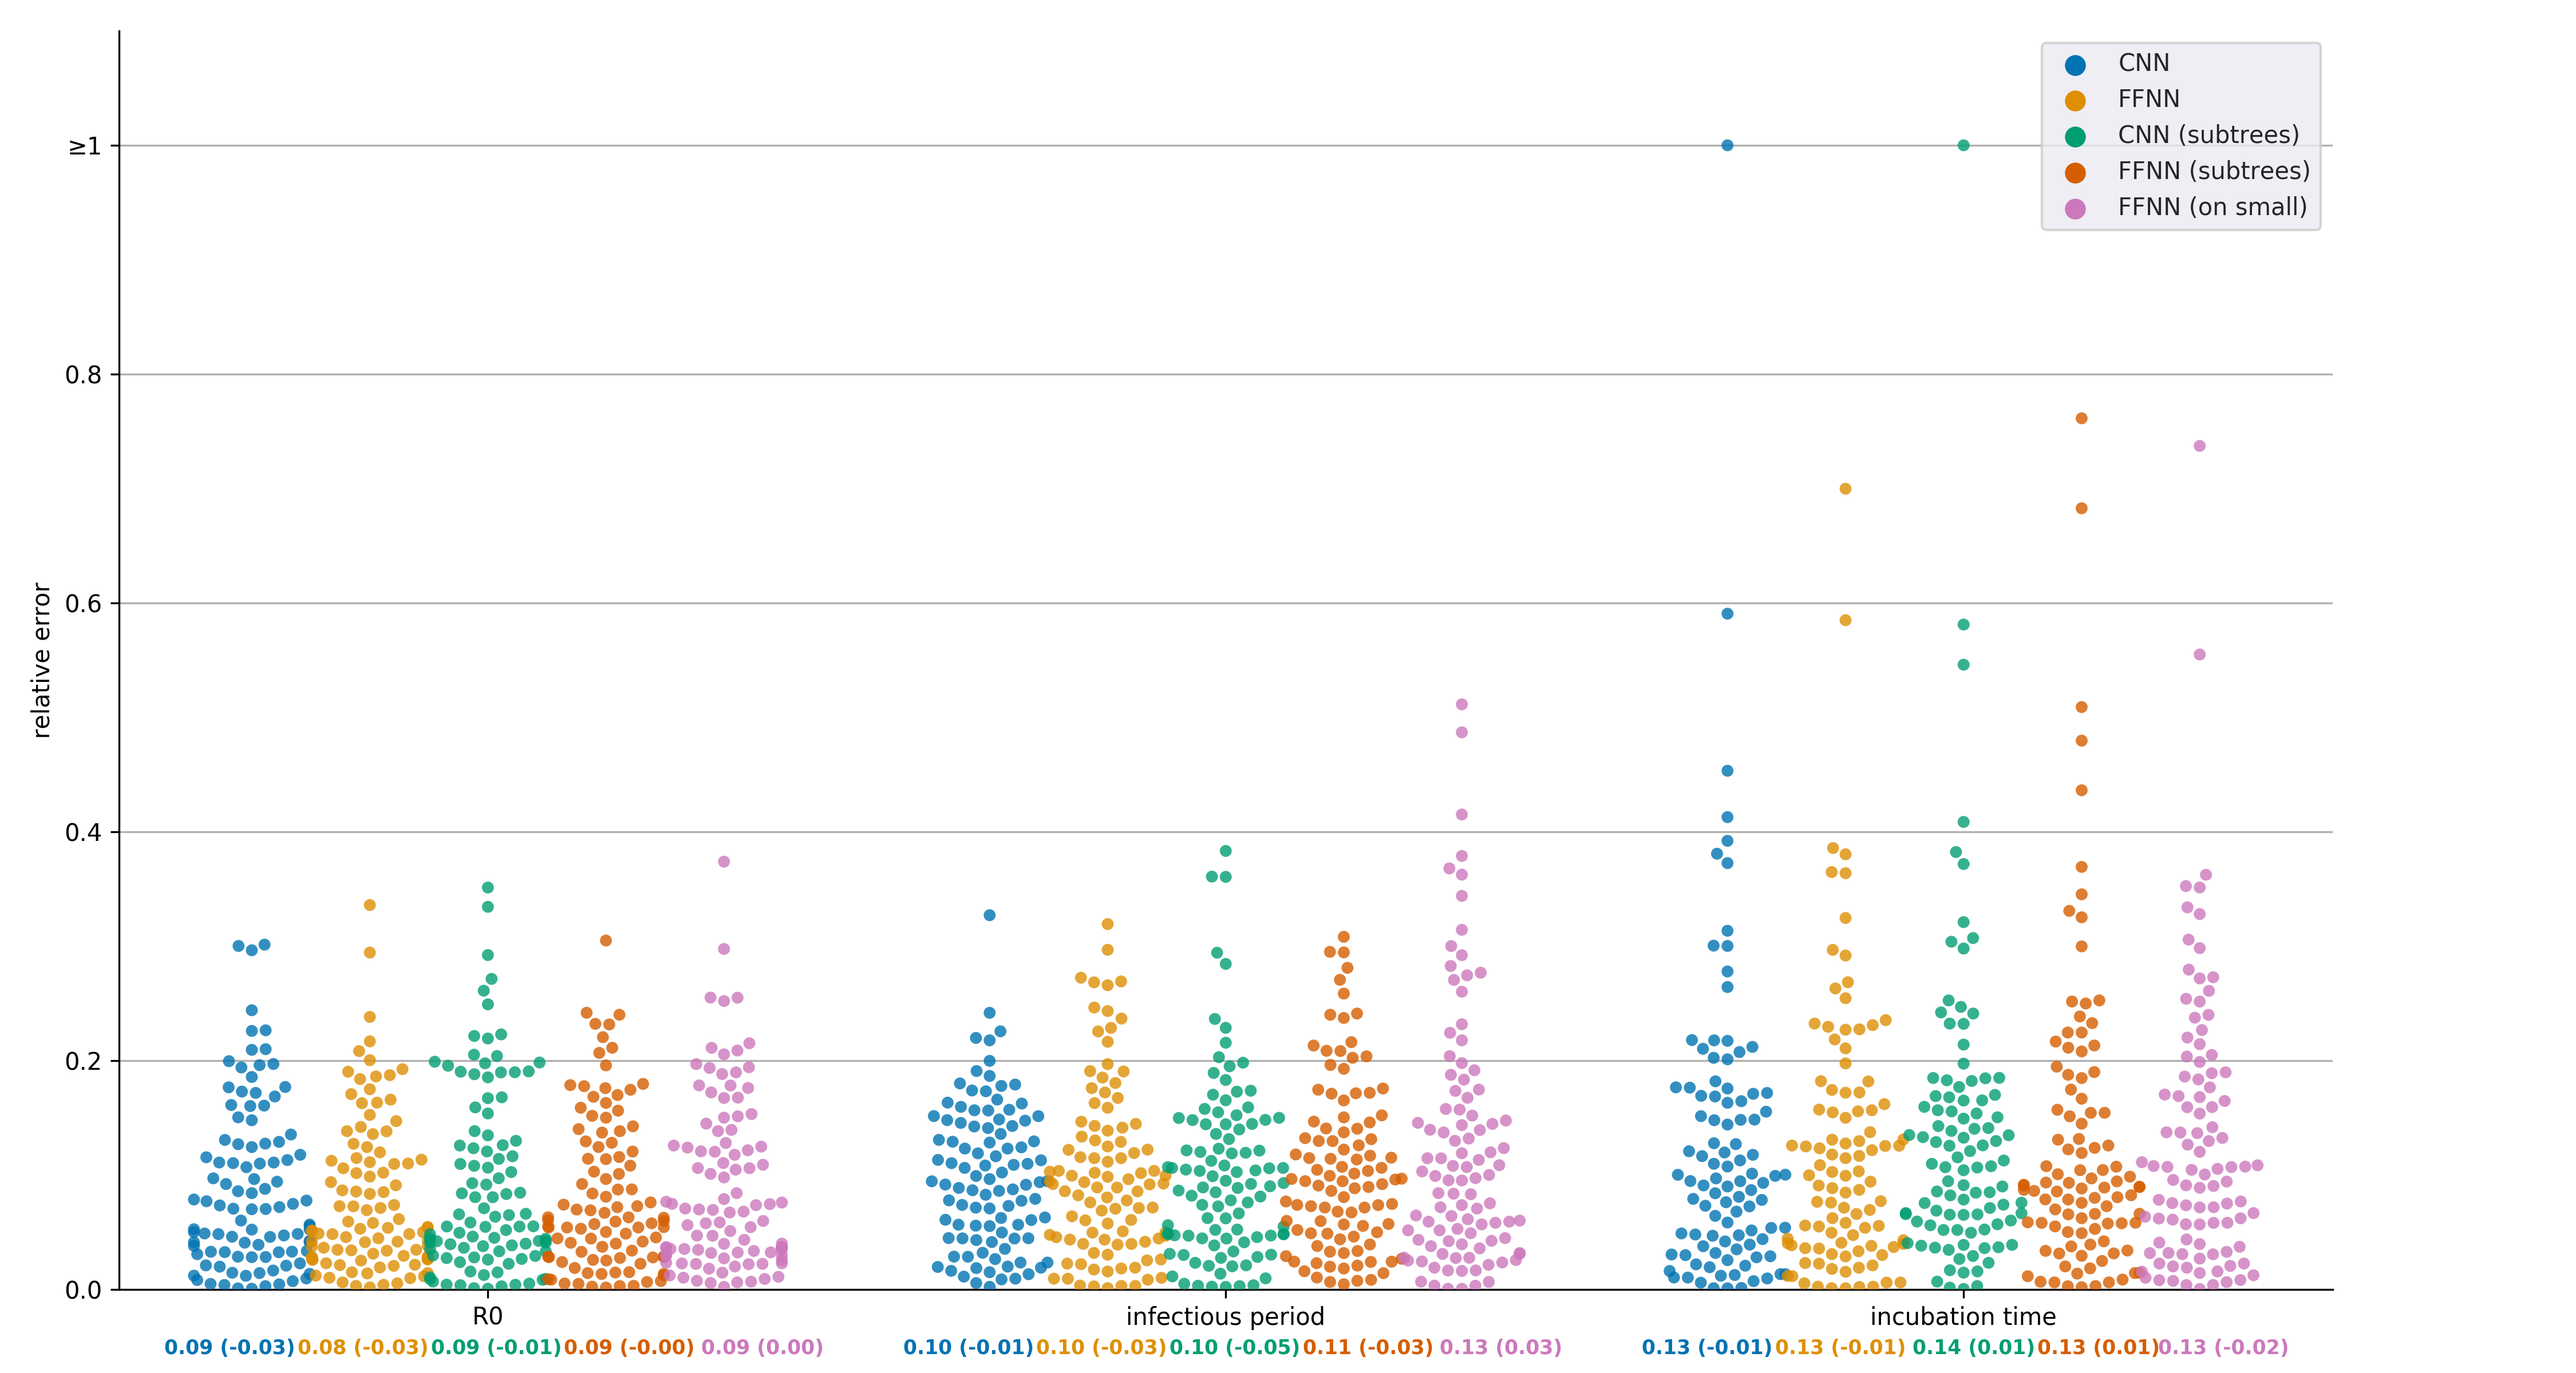
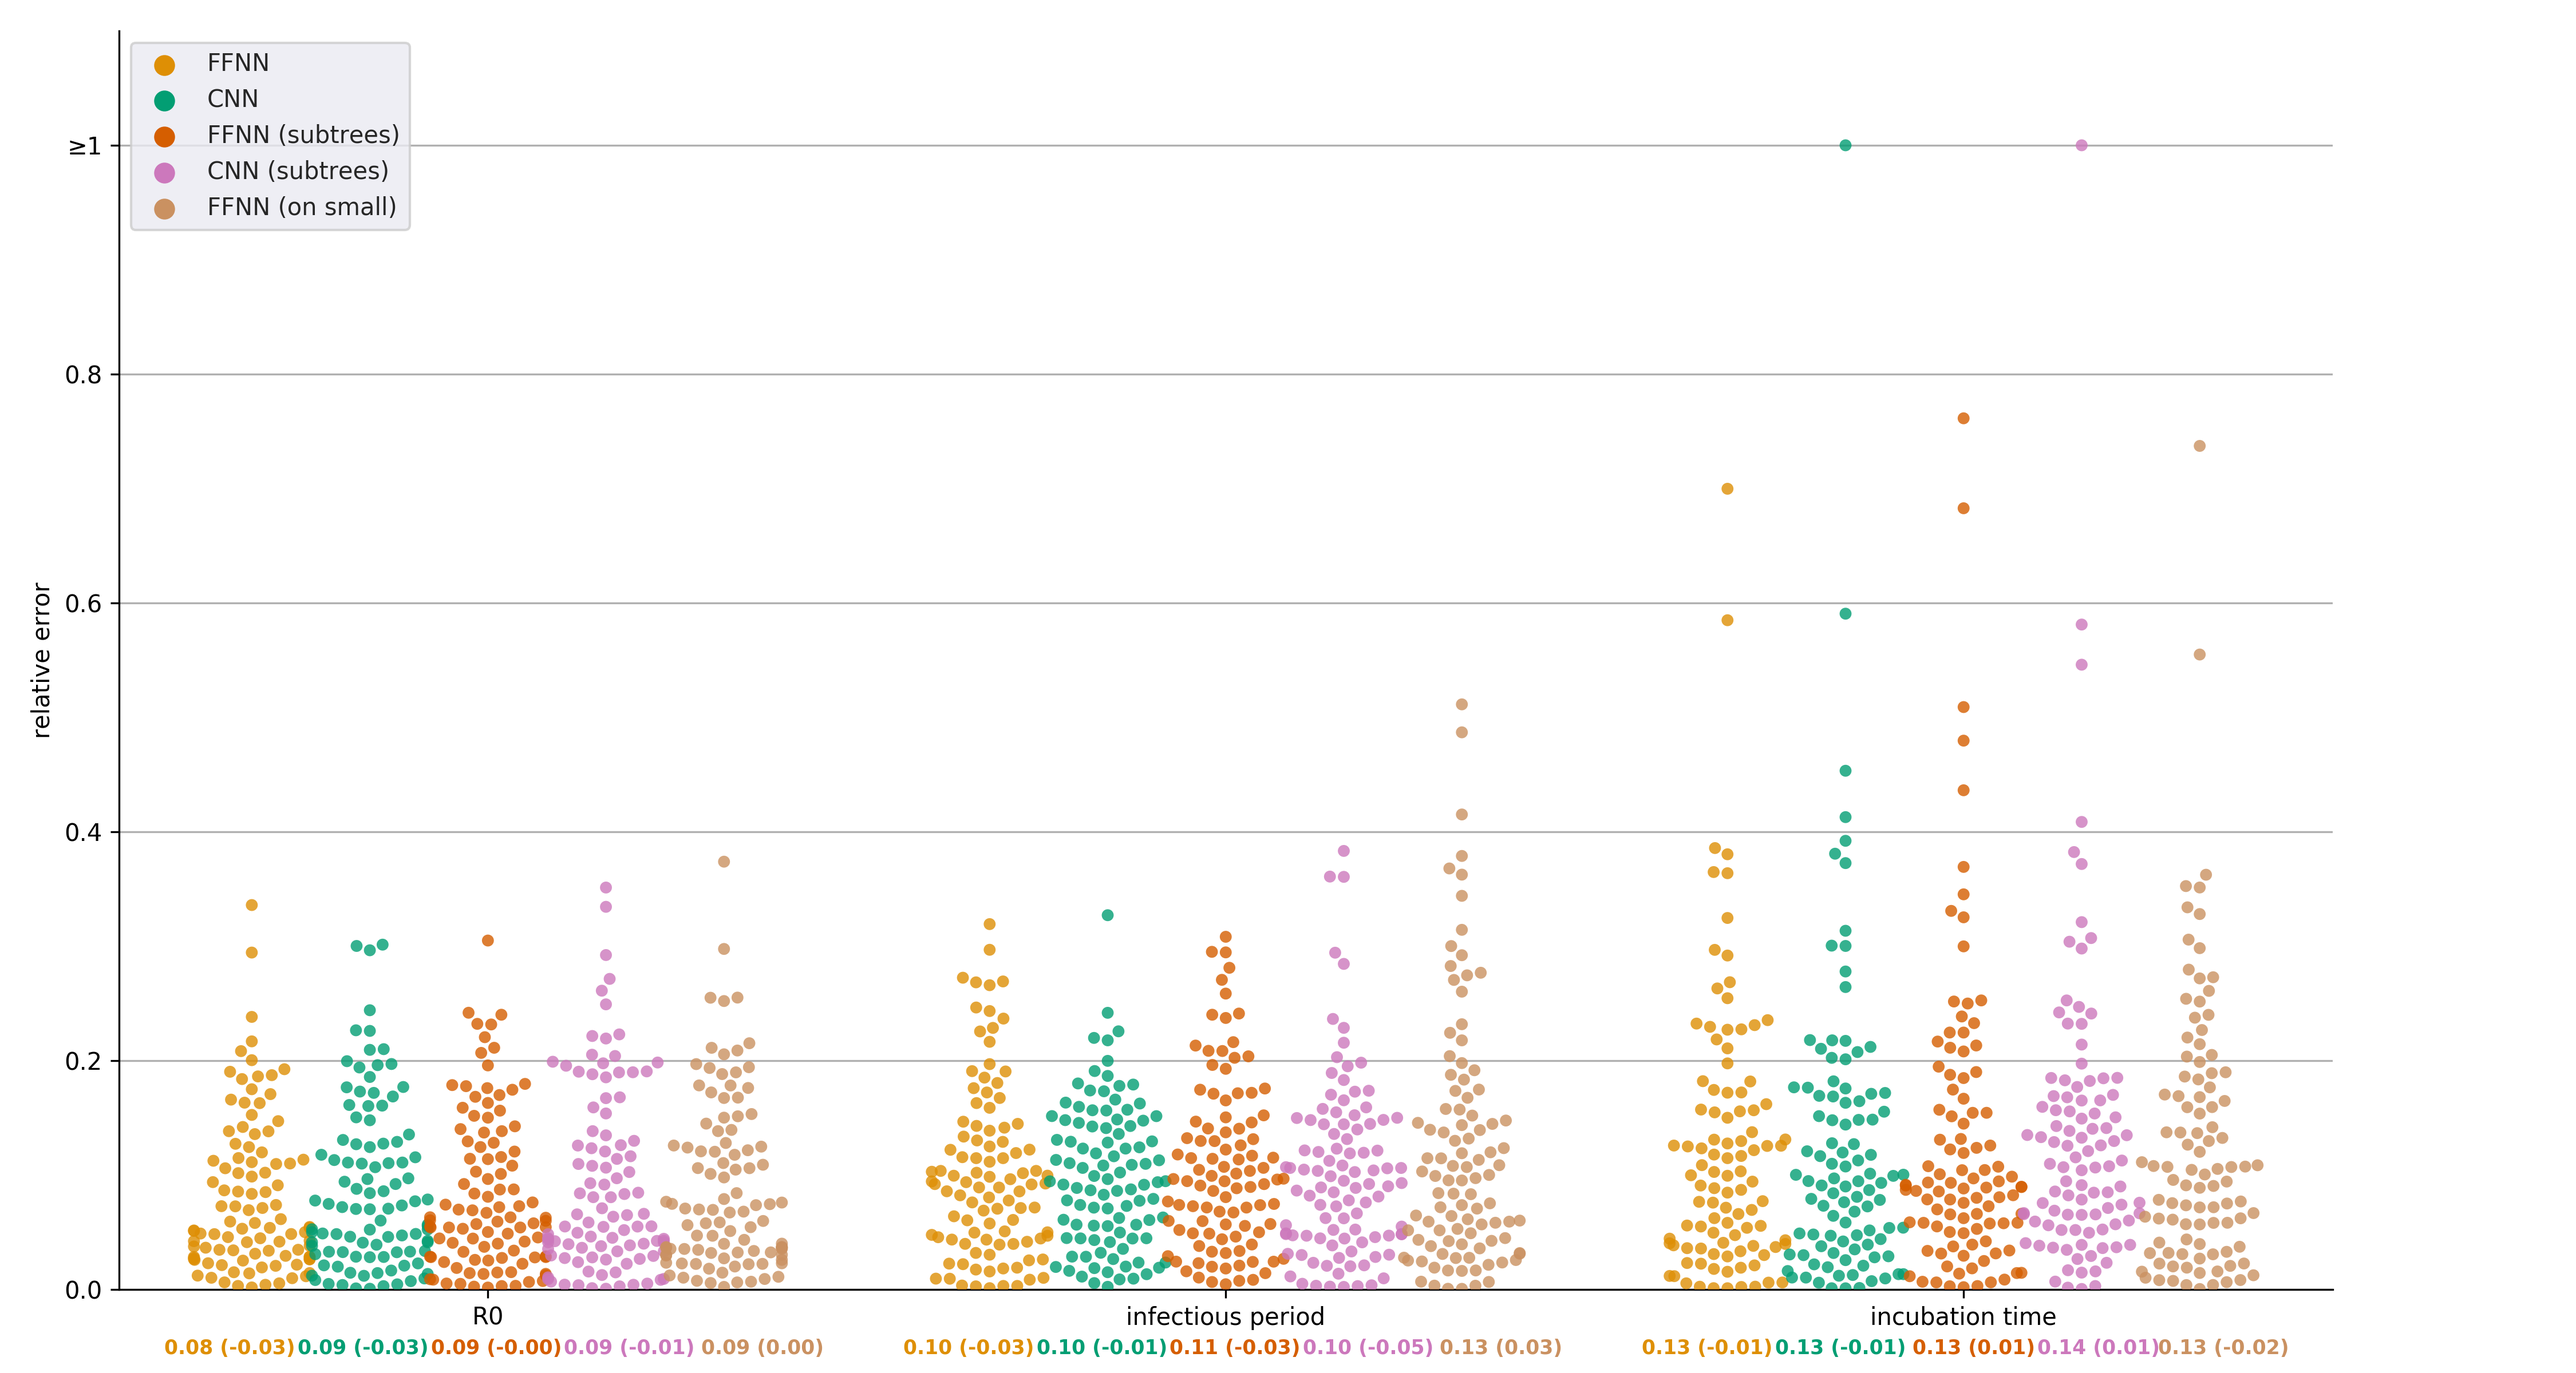
Updated colourscheme for Sup Fig 8

diff --git a/test_subtrees/plot_error.py b/test_subtrees/plot_error.py
@@ -20,7 +20,8 @@ if __name__ == "__main__":
     real_df = df.loc[df['type'] == 'real', :]
     real_df_subtree = df.loc[df['type'] == 'real-subtrees', :]
     df = df.loc[(df['type'] != 'real') & (df['type'] != 'real-subtrees'), :]
-    types = sorted(df['type'].unique(), key=lambda _: tuple(reversed(list((_ if _[-1] == ')' else (_ + ' ')).split(' ')))))
+    types = sorted(df['type'].unique(),
+                   key=lambda _: (0 if len(_) < 5 else 1, 0 if 'subtrees' in _ else 1, 0 if 'FFNN' in _ else 1))
     pars = [c for c in df.columns if c not in ['type', 'p']]
 
     for type in types:
@@ -55,6 +56,8 @@ if __name__ == "__main__":
     ERROR_COL = 'relative error'
     plot_df = pd.DataFrame(data=data, columns=['parameter', ERROR_COL, 'config'])
     palette = sns.color_palette("colorblind")
+    # FFNN, CNN, [FFNN-subtrees, CNN-subtrees], FFNN-on-other, CNN-on-other
+    palette = sns.color_palette("colorblind")[1:] if len(types) == 5 else (sns.color_palette("colorblind")[1:3] + sns.color_palette("colorblind")[5:])
     sns.swarmplot(x="parameter", y=ERROR_COL, palette=palette, data=plot_df, alpha=.8, hue="config", ax=ax, dodge=True)
     ax.spines['right'].set_visible(False)
     ax.spines['top'].set_visible(False)
